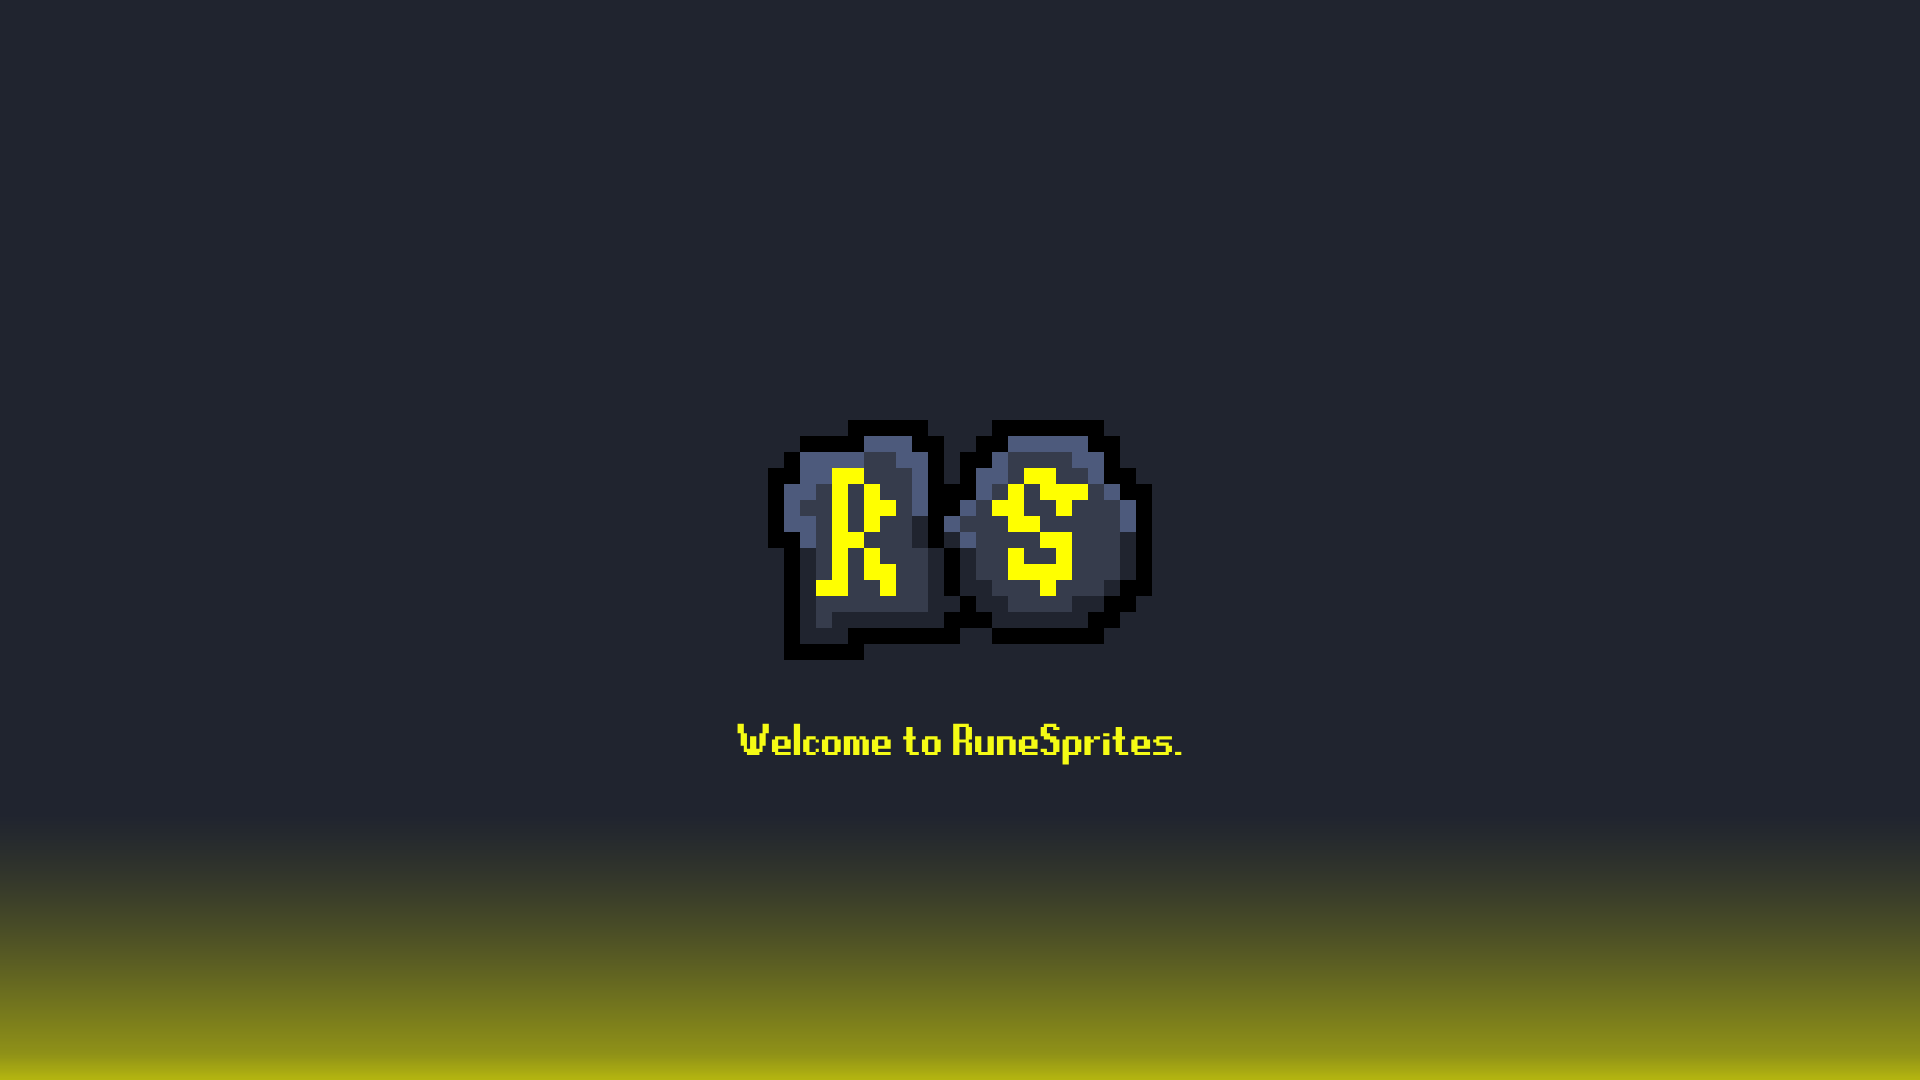
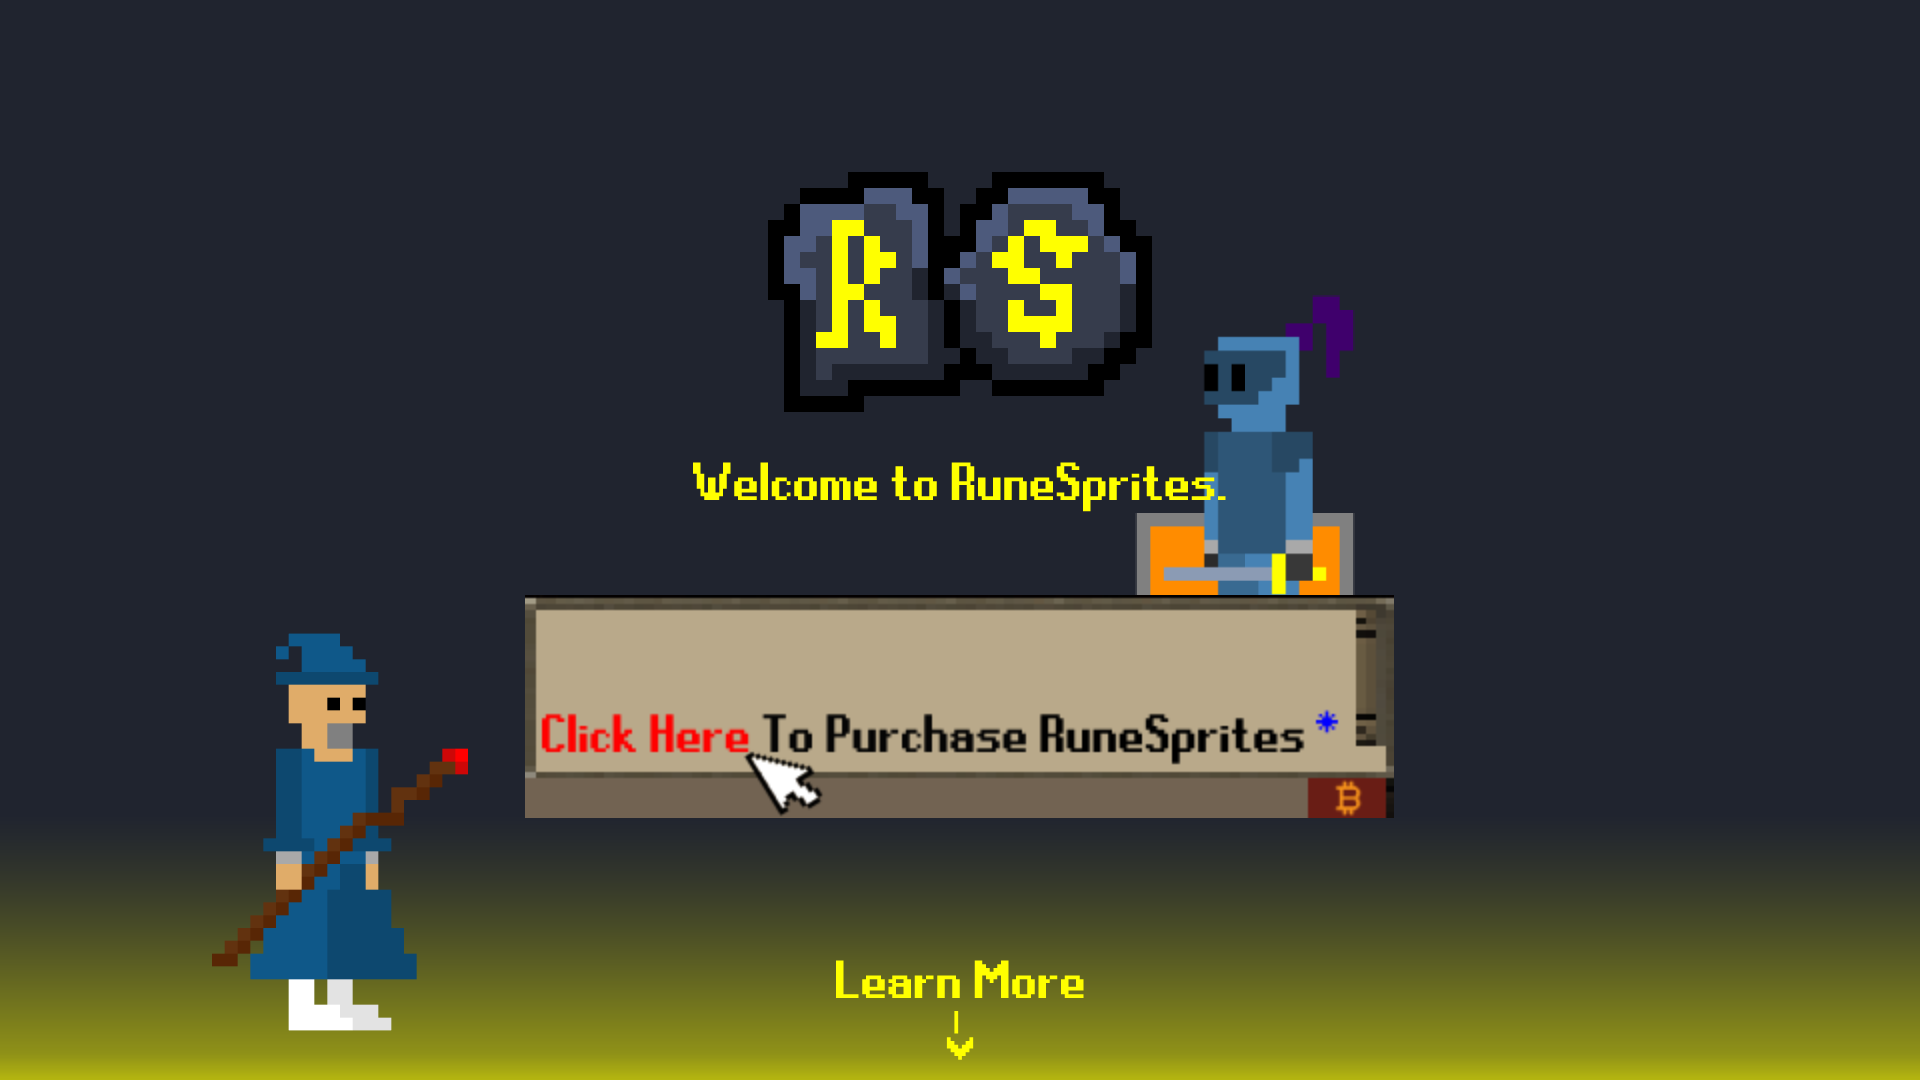
background

Changed region(s): [[0.0938, 0.1528, 0.75, 0.9778], [0.4375, 0.8861, 0.5625, 0.9472]]

diff --git a/assets/css/styles.css b/assets/css/styles.css
@@ -735,7 +735,7 @@ footer p {
 /* Style for the clickable image container */
 #container {
   position: absolute; /* Position it absolutely */
-  top: 700px; /* Adjust top position as needed */
+  top: 650px; /* Adjust top position as needed */
   left: 50%; /* Center horizontally */
   transform: translateX(-50%); /* Center horizontally */
   z-index: 9999; /* Ensure it appears on top of other content */
